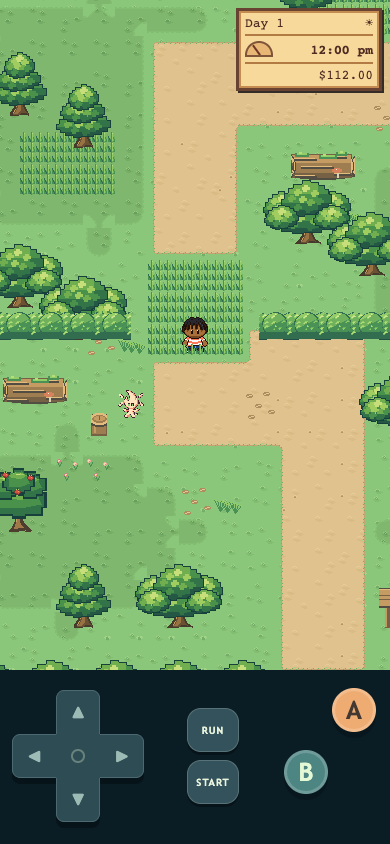
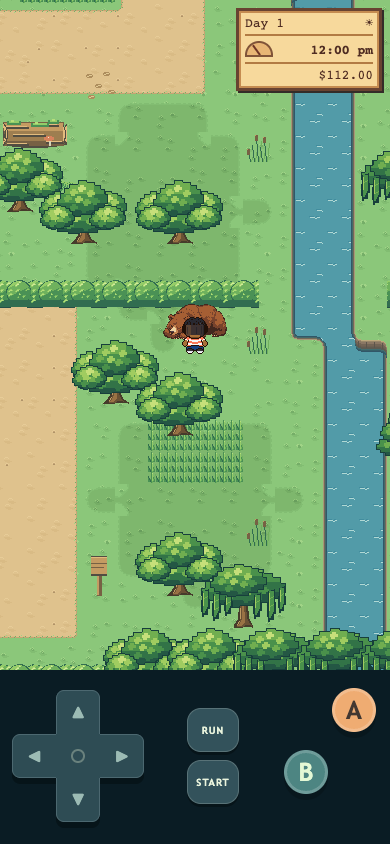
Verify visible aside bear in the playable review

diff --git a/docs/reviews/M1-TN2/README.md b/docs/reviews/M1-TN2/README.md
@@ -4,7 +4,7 @@
 
 Blush is now tiny and Mint compact, with their existing discovery IDs and personalities retained. Accepted regular Apricot remains unchanged. One fuller, patient Lilac waits in the existing yard. All four use the same native frame family and real transparent eye holes. [Clean native comparison](art/clean-light-8x.png) · [countable grid](art/grid-8x.png) · [art/export proof](art/README.md). Specifications and measured sampling limits live in [ART_BIBLE](../../ART_BIBLE.md).
 
-An original russet bear rests across the actual Mossway bottleneck toward Liarsville. Its explicit three-cell collision remains separate from compiled map solids and artwork. Every blocked cell has an A explanation; no unlock condition is invented. Old northern positions, Liarsville/waterworks saves, visited histories and north-origin returns retain access **before** recovery, with the bear visibly resting aside. [Closed-route phone view](browser/bear-closed-zoom2.png) · [preserved-access view](browser/bear-aside-zoom2.png) · [native bear](art/bear-light-8x.png). Map Studio adds the same footprint and native renderer without rewriting its v1 map format or existing contact catalogue.
+An original russet bear rests across the actual Mossway bottleneck toward Liarsville. Its explicit three-cell collision remains separate from compiled map solids and artwork. Every blocked cell has an A explanation; no unlock condition is invented. Old northern positions, Liarsville/waterworks saves, visited histories and north-origin returns retain access **before** recovery, with the bear visibly resting aside. Fresh synthetic approaches confirm its visible aside sprite and “room to pass” greeting at all three levels. [Closed-route phone view](browser/bear-closed-zoom2.png) · [preserved-access view](browser/bear-aside-zoom2.png) · [native bear](art/bear-light-8x.png). Map Studio adds the same footprint and native renderer without rewriting its v1 map format or existing contact catalogue.
 
 Pause now has exactly three minus/plus world-zoom settings: the widest existing baseline and two closer levels. Keyboard, touch and saved preferences work; old/invalid preferences default safely. A stable visible-body focus keeps Hero centered on both axes without edge clamps, while collision and sorting stay at the feet. Even native buffers, symmetric clipping, existing room/outdoor surrounds and nearest pixels preserve crisp rendering. The HUD and primary controls keep their layout. Independent Map Studio playtests, adventure greenhouse and coast share the rule; editor jumps round to the drawn native pixels. Fish observation/reveal uses its own fitted presentation and restores world zoom on returning to walking. [320px pause view](browser/zoom-3-320.png) · [actual subview views/checks](subviews/browser-checks.json) · [landscape reveal](greenhouse-zoom/reveal-zoom3-844.png).
 
